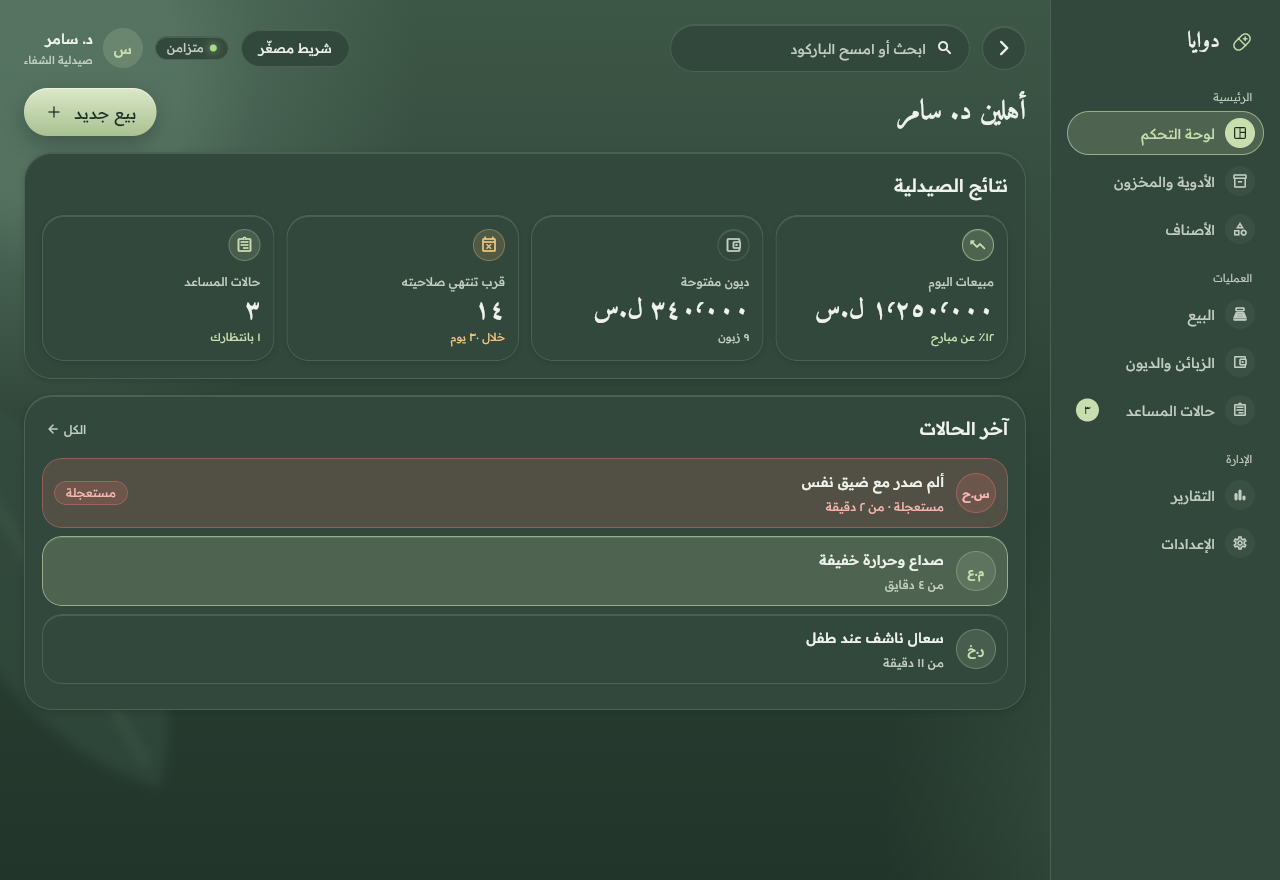
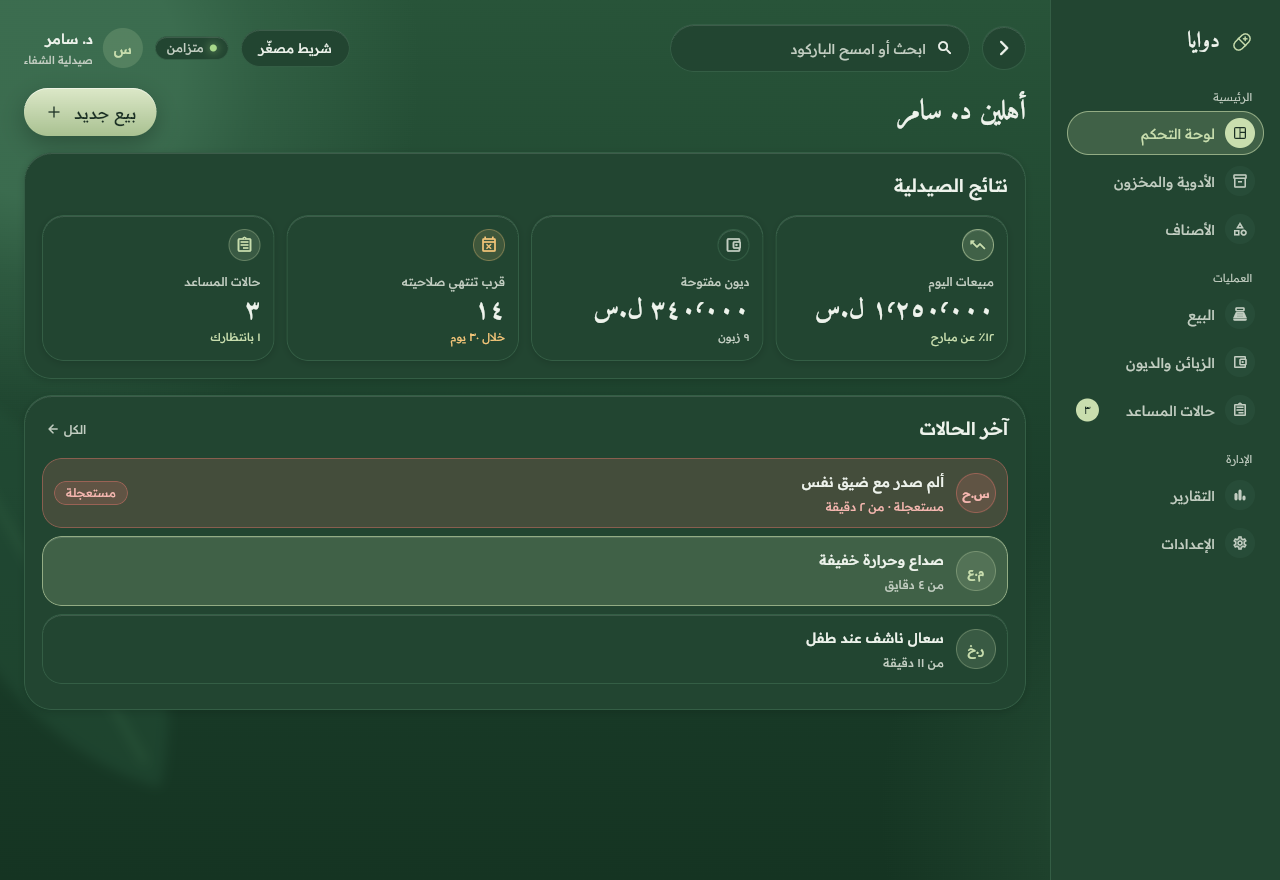
Deepen and saturate the green background and surface tokens
Owner confirmed the dark-glass direction and asked for a darker, more
saturated green. Hue unchanged; saturation raised and lightness lowered
for the gradient, blobs, leaves and solid surfaces. Docs and screenshots
updated.

Claude-Session: https://claude.ai/code/session_011vzEehr7XSzQVfzdxWUz69

Changed region(s): [[0.0, 0.0, 0.1875, 0.2761]]

diff --git a/packages/doaya_ui/lib/src/tokens/colors.dart b/packages/doaya_ui/lib/src/tokens/colors.dart
@@ -4,18 +4,18 @@ import 'dart:ui';
 /// (directly for mode-independent colors, or via `DoayaTokens` for surfaces).
 abstract final class DoayaColors {
   // Background gradient.
-  static const bgTop = Color(0xFF3D5747);
-  static const bgMid = Color(0xFF2B4034);
-  static const bgBottom = Color(0xFF22352A);
+  static const bgTop = Color(0xFF285439);
+  static const bgMid = Color(0xFF1B3F2B);
+  static const bgBottom = Color(0xFF153422);
 
   // Background decoration (blobs + leaves).
-  static const blobLight = Color(0xFF5A7866);
-  static const blobDark = Color(0xFF45604F);
-  static const leafFillA = Color(0xFF3F5B4A);
-  static const leafVeinA = Color(0xFF6F8E78);
-  static const leafFillB = Color(0xFF3A5546);
-  static const leafVeinB = Color(0xFF688770);
-  static const photoScrim = Color.fromRGBO(34, 53, 42, 0.55);
+  static const blobLight = Color(0xFF3F7153);
+  static const blobDark = Color(0xFF2F5A3F);
+  static const leafFillA = Color(0xFF29573C);
+  static const leafVeinA = Color(0xFF50865F);
+  static const leafFillB = Color(0xFF26523A);
+  static const leafVeinB = Color(0xFF4A8057);
+  static const photoScrim = Color.fromRGBO(21, 52, 34, 0.55);
 
   // Glass.
   static const glassFill = Color.fromRGBO(236, 242, 234, 0.09);
@@ -26,9 +26,9 @@ abstract final class DoayaColors {
   static const glassHighlightStrong = Color.fromRGBO(255, 255, 255, 0.16);
 
   // Solid variants (pharmacy desktop, long lists).
-  static const surface = Color(0xFF33483C);
-  static const surfaceRaised = Color(0xFF3A5044);
-  static const border = Color(0xFF4A6254);
+  static const surface = Color(0xFF224531);
+  static const surfaceRaised = Color(0xFF274C38);
+  static const border = Color(0xFF345E45);
 
   // Sage (primary action).
   static const sageTop = Color(0xFFDCE8C8);

diff --git a/packages/doaya_ui/test/theme_test.dart b/packages/doaya_ui/test/theme_test.dart
@@ -35,7 +35,7 @@ void main() {
     });
 
     test('spec colors are exact', () {
-      expect(DoayaColors.bgTop, const Color(0xFF3D5747));
+      expect(DoayaColors.bgTop, const Color(0xFF285439));
       expect(DoayaColors.glassFill, const Color.fromRGBO(236, 242, 234, 0.09));
       expect(DoayaColors.onSage, const Color(0xFF1B3024));
       expect(DoayaColors.accent, const Color(0xFFC9DEAE));

diff --git a/docs/SPEC.md b/docs/SPEC.md
@@ -70,12 +70,12 @@ Reference mockups live in `/design`. Rebuild them in Flutter; never embed HTML.
 - All `[bracketed]` text in mockups is a placeholder for real data.
 
 ### 4.1 Background
-Vertical gradient `#3D5747` → `#2B4034` (55%) → `#22352A`, two large soft blobs (`#5A7866`, `#45604F`) and faint blurred leaf shapes. Optional blurred photo `assets/bg/leaves.jpg` (added later); the gradient is the fallback.
+Vertical gradient `#285439` → `#1B3F2B` (55%) → `#153422`, two large soft blobs (`#3F7153`, `#2F5A3F`) and faint blurred leaf shapes. Optional blurred photo `assets/bg/leaves.jpg` (added later); the gradient is the fallback.
 
 ### 4.2 Color tokens
 | Token | Value | Use |
 |---|---|---|
-| bgTop / bgMid / bgBottom | `#3D5747` / `#2B4034` / `#22352A` | background gradient |
+| bgTop / bgMid / bgBottom | `#285439` / `#1B3F2B` / `#153422` | background gradient |
 | glassFill | `rgba(236,242,234,0.09)` | standard glass surface |
 | glassFillStrong | `rgba(236,242,234,0.13)` | hero cards, sheets, bottom nav |
 | glassBorder / glassBorderStrong | `rgba(236,242,234,0.20)` / `0.26` | 1px glass borders |
@@ -91,7 +91,7 @@ Vertical gradient `#3D5747` → `#2B4034` (55%) → `#22352A`, two large soft bl
 | dangerFill / Border / Text | `rgba(240,120,110,0.16)` / `0.40` / `#F6B7B0` | out of stock, red-flag cases |
 | successDot | `#A8D98A` | online, synced, ready |
 
-**Solid variants** (pharmacy desktop, long lists): `surface #33483C`, `surfaceRaised #3A5044`, `border #4A6254`.
+**Solid variants** (pharmacy desktop, long lists): `surface #224531`, `surfaceRaised #274C38`, `border #345E45`.
 
 ### 4.3 Glass rules and performance
 - Glass = translucent fill + 1px border + inner top highlight + `BackdropFilter` blur 18 (strong: 22).

diff --git a/docs/DECISIONS.md b/docs/DECISIONS.md
@@ -40,3 +40,7 @@ It's the standard analyzer rule set generated by `flutter create`. It's dev-only
 
 ## 2026-09-25 · Outer-only shadows for glass
 CSS `box-shadow` is painted only outside an element. Flutter's `BoxShadow` is painted under the whole box, so it would show through translucent glass and muddy it. `GlassSurface` paints its shadow with a painter that clips out the shape itself.
+
+## 2026-09-25 · Darker, more saturated green (owner request)
+Owner confirmed the "dark glass" design and asked for a deeper, more saturated green layer. All background/surface greens kept their hue; saturation was raised ~1.75× and lightness lowered ~16%:
+`bgTop #3D5747→#285439`, `bgMid #2B4034→#1B3F2B`, `bgBottom #22352A→#153422`, blobs `#5A7866→#3F7153`, `#45604F→#2F5A3F`, solid `surface #33483C→#224531`, `surfaceRaised #3A5044→#274C38`, `border #4A6254→#345E45` (leaves shifted the same way). Text, sage, accent, warning and danger tokens are unchanged; text contrast only improves on the darker ground. The HTML mockups in `/design` still show the old green; `doaya_ui` tokens are now the source of truth for color.

diff --git a/docs/PROGRESS.md b/docs/PROGRESS.md
@@ -25,9 +25,13 @@
 - [x] Tests + analyzer clean
 
 ### How to review
-- Screenshots: `docs/screenshots/phase0-*.png` (mobile gallery at 430px wide, desktop shell at 1280×880, full sidebar and compact rail).
+- Screenshots: `docs/screenshots/phase0-*.png` (mobile gallery at 430px wide, desktop shell at 1280×880).
 - Run it yourself: `cd packages/doaya_ui/example && flutter run -d chrome` (or `-d windows`). Use the زجاج / صلب toggle to switch between glass and solid, and the "واجهة سطح المكتب" button to open the desktop shell.
 - `flutter test` in `packages/doaya_ui`: 28 tests (Arabic number formatting, theme tokens, the rule that solid mode never blurs, component behavior).
+
+### Review feedback applied
+- Design direction confirmed: "dark glass" (the `glass` page of the design canvas, identical to `/design`).
+- Green layer made darker and more saturated (see DECISIONS, 2026-09-25).
 
 ### Open questions for review
 - `design/*.html` reference a `support.js` that wasn't in the zip. The files still render (static markup); only the preview-harness script is missing.
